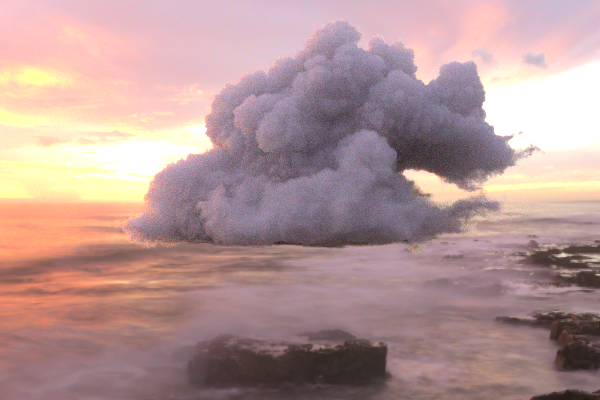
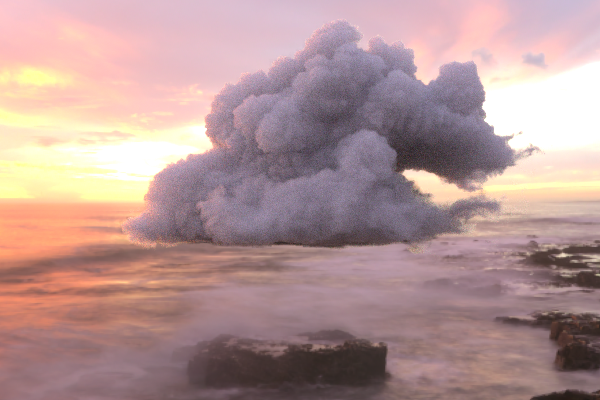
divider: readd medium

diff --git a/exe/renderer/main.cpp b/exe/renderer/main.cpp
@@ -46,7 +46,7 @@ auto main() -> int {
 	color::Color_Space::initialize();
 
 	auto size = math::Vector<usize, 2>{600uz, 400uz};
-	auto spp = 16uz;
+	auto spp = 256uz;
 	auto depth = 64uz;
 
 	auto sensor = std::make_unique<photo::Sensor>(color::Color_Space::sRGB.get());
@@ -68,10 +68,10 @@ auto main() -> int {
 	auto halton = math::Halton_Sampler{seed};
 
 	auto identity = math::Transform{};
-	auto world_to_render = math::Transform{{-2.5f, -0.6f, 2.5f}};
-	// auto world_to_render = math::Transform{{0.f, 0.f, 1000.f}};
+	// auto world_to_render = math::Transform{{-2.5f, -0.6f, 2.5f}};
+	auto world_to_render = math::Transform{{0.f, 0.f, 1000.f}};
 	auto render_to_camera = math::Transform{{0.f, 0.f, 0.f}, {1.f},
-		math::Quaternion<f32>::from_axis_angle({0.f, 1.f, 0.f}, math::pi * 1.f / 4.f),
+		// math::Quaternion<f32>::from_axis_angle({0.f, 1.f, 0.f}, math::pi * 1.f / 4.f),
 	};
 
 	auto sphere_to_world = math::Transform{{}, {200.f}};
@@ -87,12 +87,12 @@ auto main() -> int {
 	auto base_to_world = math::Transform{{0.0571719, 0.213656, -0.0682078}, {0.482906f},
 		math::Quaternion<f32>::from_axis_angle({0.f, 1.f, 0.f}, math::pi * 0.f / 1.f),
 	};
-	auto bound_to_world = math::Transform{{}, {500.f}};
-	auto medium_to_world = math::Transform{{}, {1.0f},
+	auto bound_to_world = math::Transform{{}, {500.0f}};
+	auto medium_to_world = math::Transform{{}, {1.f},
 		math::Quaternion<f32>::from_axis_angle({0.f, 1.f, 0.f}, math::pi * 1.f / 2.f),
 	};
 	auto light_to_world = math::Transform{{}, {1.0f},
-		math::Quaternion<f32>::from_axis_angle({0.f, 1.f, 0.f}, math::pi * 1.f / 1.f),
+		math::Quaternion<f32>::from_axis_angle({0.f, 1.f, 0.f}, math::pi * 0.f / 1.f),
 	};
 	auto parallel_to_world = math::Transform{{}, {1.f},
 		math::Quaternion<f32>::from_rotation_between(
@@ -200,8 +200,6 @@ auto main() -> int {
 	
 	auto diffuse_material = material::Material{
 		.bsdf = &lambertian,
-		.interior_medium = &vaccum_medium,
-		.exterior_medium = &vaccum_medium,
 		.eta = &eta,
 		.k = &k,
 		.reflectance = &diffuse_reflectance,
@@ -209,8 +207,6 @@ auto main() -> int {
 	};
 	auto test_material = material::Material{
 		.bsdf = &microfacet,
-		.interior_medium = &vaccum_medium,
-		.exterior_medium = &vaccum_medium,
 		.eta = spectra::Spectrum::Au_eta.get(),
 		.k = spectra::Spectrum::Au_k.get(),
 		.u_roughness = &u_roughness,
@@ -218,8 +214,6 @@ auto main() -> int {
 	};
 	auto interface_material = material::Material{
 		.bsdf = &interface,
-		.interior_medium = &cloud_medium,
-		.exterior_medium = &vaccum_medium,
 	};
 
 	auto env_map = std::make_unique<texture::Image_Texture<spectra::Stochastic_Spectrum>>(
@@ -268,14 +262,14 @@ auto main() -> int {
 	auto emitter = emitter::Uniform_Emitter{std::move(lights), std::move(inf_lights)};
 
 	auto dividers = std::vector<accel::Divider>{
-		// {
-		// 	.shape = &sphere,
-		// 	.material = &interface_material,
-		// 	.light = nullptr,
-		// 	.local_to_world = &bound_to_world,
-		// 	.interior_to_world = &medium_to_world,
-		// 	.exterior_to_world = &identity,
-		// },
+		{
+			.shape = &sphere,
+			.medium = &cloud_medium,
+			.material = &interface_material,
+			.light = nullptr,
+			.local_to_world = &bound_to_world,
+			.medium_to_world = &medium_to_world,
+		},
 	};
 
 	auto assimp_loader = loader::Assimp_Loader{};
@@ -283,45 +277,45 @@ auto main() -> int {
 	auto kernel = assimp_loader.from_path("../metatron-assets/material/mesh/kernel.ply");
 	auto base = assimp_loader.from_path("../metatron-assets/material/mesh/base.ply");
 
-	for (auto& mesh: shell) {
-		for (auto i = 0uz; i < mesh->size(); i++) {
-			dividers.push_back({
-				.shape = mesh.get(),
-				.material = &test_material,
-				.light = nullptr,
-				.local_to_world = &shell_to_world,
-				.interior_to_world = &identity,
-				.exterior_to_world = &identity,
-				.primitive = i,
-			});
-		}
-	}
-	for (auto& mesh: kernel) {
-		for (auto i = 0uz; i < mesh->size(); i++) {
-			dividers.push_back({
-				.shape = mesh.get(),
-				.material = &diffuse_material,
-				.light = nullptr,
-				.local_to_world = &kernel_to_world,
-				.interior_to_world = &identity,
-				.exterior_to_world = &identity,
-				.primitive = i,
-			});
-		}
-	}
-	for (auto& mesh: base) {
-		for (auto i = 0uz; i < mesh->size(); i++) {
-			dividers.push_back({
-				.shape = mesh.get(),
-				.material = &test_material,
-				.light = nullptr,
-				.local_to_world = &base_to_world,
-				.interior_to_world = &identity,
-				.exterior_to_world = &identity,
-				.primitive = i,
-			});
-		}
-	}
+	// for (auto& mesh: shell) {
+	// 	for (auto i = 0uz; i < mesh->size(); i++) {
+	// 		dividers.push_back({
+	// 			.shape = mesh.get(),
+	// 			.medium = &vaccum_medium,
+	// 			.material = &test_material,
+	// 			.light = nullptr,
+	// 			.local_to_world = &shell_to_world,
+	// 			.medium_to_world = &identity,
+	// 			.primitive = i,
+	// 		});
+	// 	}
+	// }
+	// for (auto& mesh: kernel) {
+	// 	for (auto i = 0uz; i < mesh->size(); i++) {
+	// 		dividers.push_back({
+	// 			.shape = mesh.get(),
+	// 			.medium = &vaccum_medium,
+	// 			.material = &diffuse_material,
+	// 			.light = nullptr,
+	// 			.local_to_world = &kernel_to_world,
+	// 			.medium_to_world = &identity,
+	// 			.primitive = i,
+	// 		});
+	// 	}
+	// }
+	// for (auto& mesh: base) {
+	// 	for (auto i = 0uz; i < mesh->size(); i++) {
+	// 		dividers.push_back({
+	// 			.shape = mesh.get(),
+	// 			.medium = &vaccum_medium,
+	// 			.material = &test_material,
+	// 			.light = nullptr,
+	// 			.local_to_world = &base_to_world,
+	// 			.medium_to_world = &identity,
+	// 			.primitive = i,
+	// 		});
+	// 	}
+	// }
 	auto bvh = accel::LBVH{std::move(dividers), &world_to_render};
 	auto integrator = monte_carlo::Volume_Path_Integrator{};
 
@@ -337,8 +331,10 @@ auto main() -> int {
 				{
 					s.ray_differential,
 					s.default_differential,
+					&identity,
 					&world_to_render,
 					&render_to_camera,
+					&vaccum_medium,
 					px,
 					n,
 					depth,

diff --git a/src/render/monte-carlo/volume-path.cpp b/src/render/monte-carlo/volume-path.cpp
@@ -35,8 +35,8 @@ namespace metatron::monte_carlo {
 		trace_ctx.spec = emission;
 
 		auto acc_opt = std::optional<accel::Interaction>{};
-		auto medium = (media::Medium const*)nullptr;
-		auto medium_to_world = (math::Transform const*)nullptr;
+		auto medium = initial_status.medium;
+		auto medium_to_world = initial_status.local_to_world;
 		auto& rdiff = initial_status.ray_differential;
 		auto& ddiff = initial_status.default_differential;
 		auto& rt = *initial_status.world_to_render;
@@ -143,8 +143,8 @@ namespace metatron::monte_carlo {
 						imtr.p = rt | lt | math::expand(imtr.p, 1.f);
 						imtr.n = math::normalize(rt | lt | imtr.n);
 						direct_ctx.inside = math::dot(-direct_ctx.r.d, imtr.n) < 0.f;
-						dedium = direct_ctx.inside ? dim.material->interior_medium : dim.material->exterior_medium;
-						direct_to_world = direct_ctx.inside ? dim.interior_to_world : dim.exterior_to_world;
+						dedium = direct_ctx.inside ? dim.medium : initial_status.medium;
+						direct_to_world = direct_ctx.inside ? dim.medium_to_world : initial_status.local_to_world;
 						imtr.n *= direct_ctx.inside ? -1.f : 1.f;
 
 						auto close_to_light = math::length(imtr.p - l_intr.p) < 0.001f;
@@ -236,8 +236,8 @@ namespace metatron::monte_carlo {
 				intr.p = rt | lt | math::expand(intr.p, 1.f);
 				intr.n = math::normalize(rt | lt | intr.n);
 				trace_ctx.inside = math::dot(-trace_ctx.r.d, intr.n) < 0.f;
-				medium = trace_ctx.inside ? div->material->interior_medium : div->material->exterior_medium;
-				medium_to_world = trace_ctx.inside ? div->interior_to_world : div->exterior_to_world;
+				medium = trace_ctx.inside ? div->medium : initial_status.medium;
+				medium_to_world = trace_ctx.inside ? div->medium_to_world : initial_status.local_to_world;
 
 				auto flip_n = trace_ctx.inside ? -1.f : 1.f;
 				intr.n *= flip_n;

diff --git a/src/render/include/metatron/render/accel/accel.hpp b/src/render/include/metatron/render/accel/accel.hpp
@@ -10,11 +10,11 @@
 namespace metatron::accel {
 	struct Divider final {
 		shape::Shape const* shape{};
+		media::Medium const* medium;
 		material::Material const* material{};
 		light::Light const* light{};
 		math::Transform const* local_to_world{};
-		math::Transform const* interior_to_world{};
-		math::Transform const* exterior_to_world{};
+		math::Transform const* medium_to_world{};
 		usize primitive{0uz};
 	};
 

diff --git a/src/render/include/metatron/render/monte-carlo/integrator.hpp b/src/render/include/metatron/render/monte-carlo/integrator.hpp
@@ -10,8 +10,10 @@ namespace metatron::monte_carlo {
 	struct Status final {
 		math::Ray_Differential ray_differential;
 		math::Ray_Differential default_differential;
+		math::Transform const* local_to_world;
 		math::Transform const* world_to_render;
 		math::Transform const* render_to_camera;
+		media::Medium const* medium;
 		math::Vector<usize, 2> pixel;
 		usize sample_index;
 		usize max_depth;

diff --git a/src/resource/include/metatron/resource/material/material.hpp b/src/resource/include/metatron/resource/material/material.hpp
@@ -14,8 +14,6 @@ namespace metatron::material {
 
 	struct Material final {
 		bsdf::Bsdf const* bsdf;
-		media::Medium const* interior_medium;
-		media::Medium const* exterior_medium;
 		spectra::Spectrum const* eta;
 		spectra::Spectrum const* k;
 		texture::Texture<spectra::Stochastic_Spectrum> const* reflectance;
